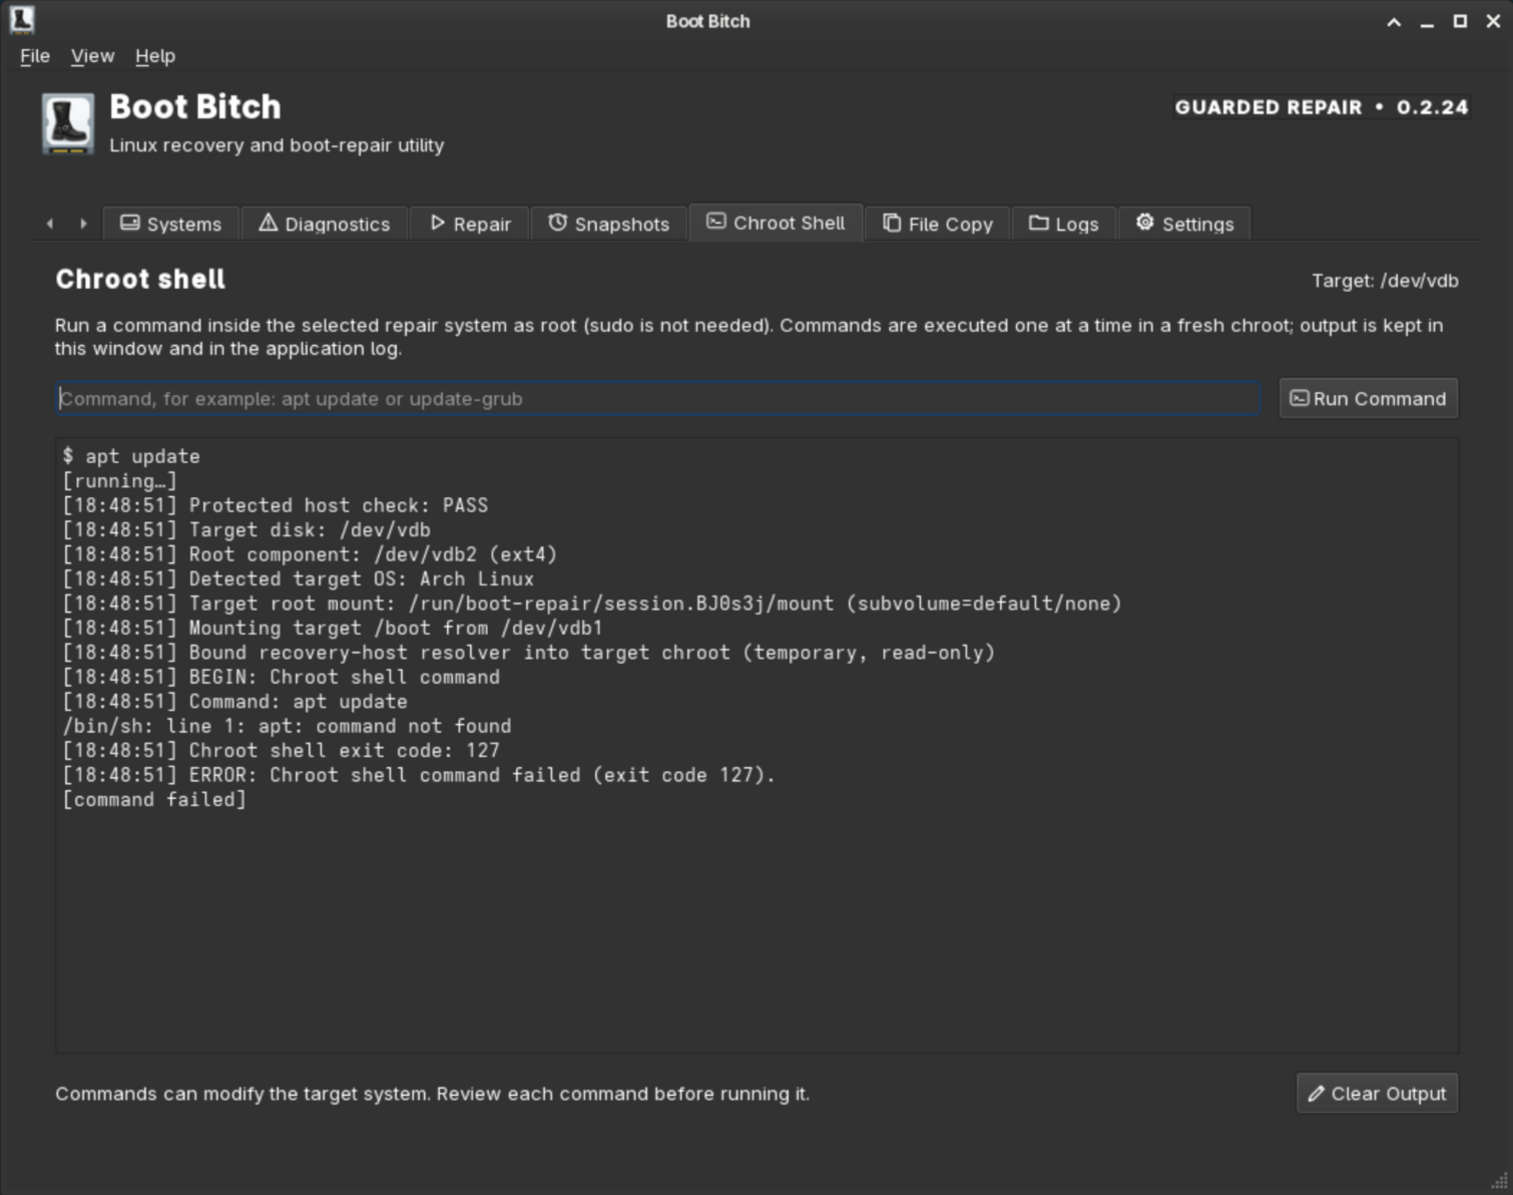
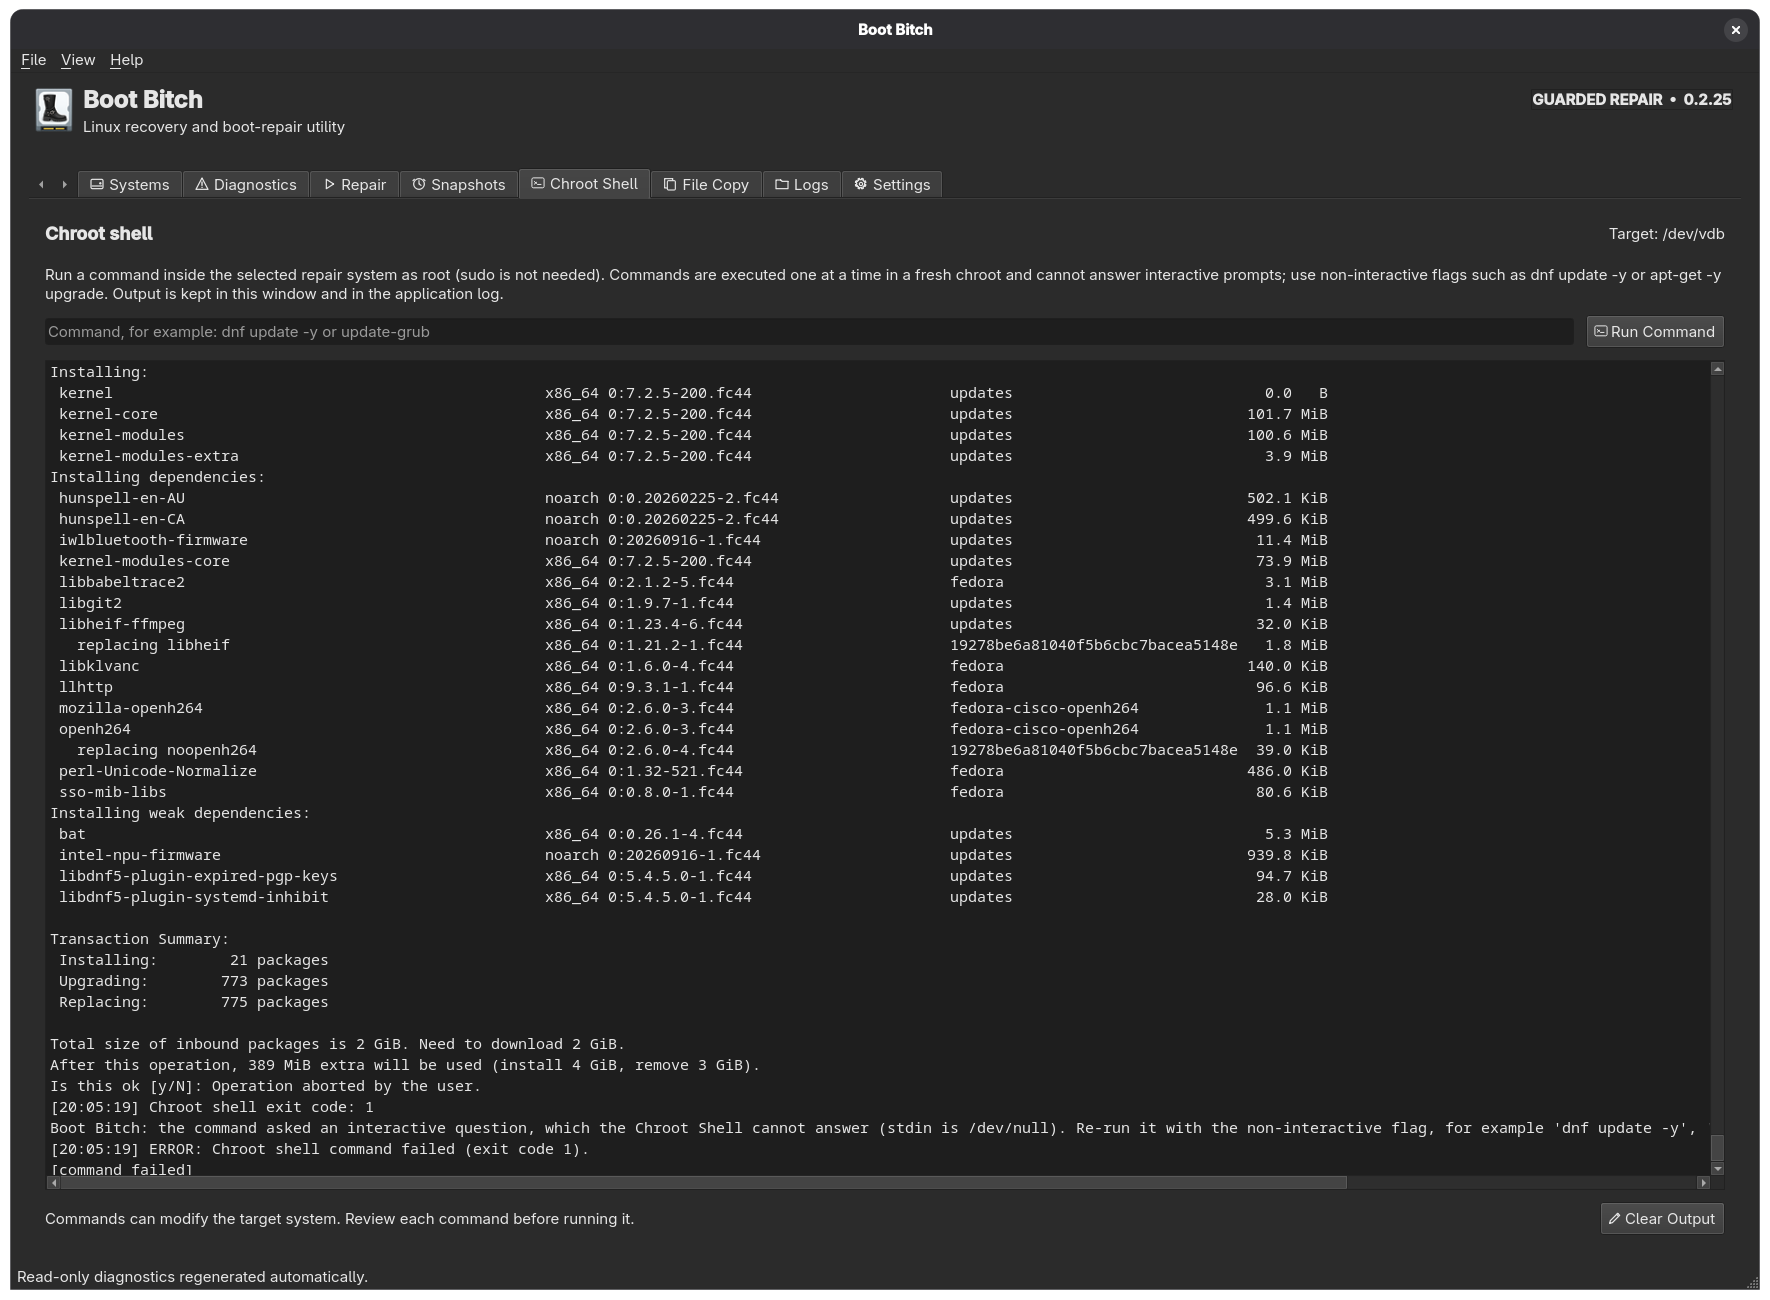
Refresh the public screenshots from the 0.2.25 Fedora run
- Replace the six published captures with anonymized 0.2.25 Fedora VM
  screenshots and restore the Systems and File Copy views.
- Redact the selected target UUID and the host account name in the File
  Copy and Logs captures before publishing.
- Update the README screenshot sections and the AppStream six-view set.

diff --git a/README.md b/README.md
@@ -68,6 +68,10 @@ Still intentionally constrained in 0.2.25:
 
 These anonymized screenshots show Boot Bitch running in a disposable recovery VM. The target is a separate virtual disk; personal host paths and physical-device identifiers have been removed.
 
+### Systems
+
+![Systems target selection](docs/screenshots/01-systems-target-selection.png)
+
 ### Diagnostics
 
 ![Diagnostics report](docs/screenshots/02-diagnostics-report.png)
@@ -78,11 +82,15 @@ These anonymized screenshots show Boot Bitch running in a disposable recovery VM
 
 ### Snapshots
 
-![Snapshot handling on an ext4 target](docs/screenshots/04-snapshots.png)
+![Btrfs snapshot inventory and read-only scan](docs/screenshots/04-snapshots.png)
 
 ### Chroot Shell
 
 ![Chroot shell](docs/screenshots/05-chroot-shell.png)
+
+### File Copy
+
+![File recovery and copy with a guarded destination path](docs/screenshots/06-file-copy.png)
 
 ### Logs
 
